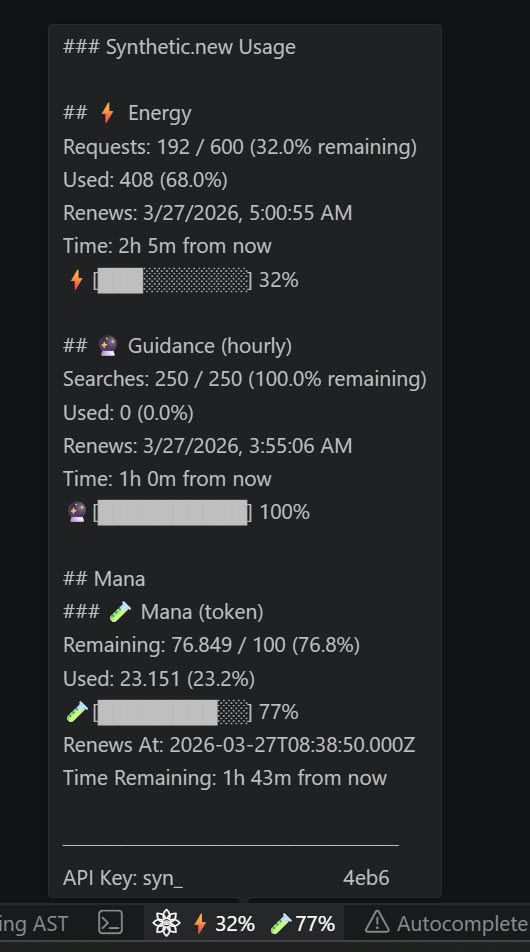
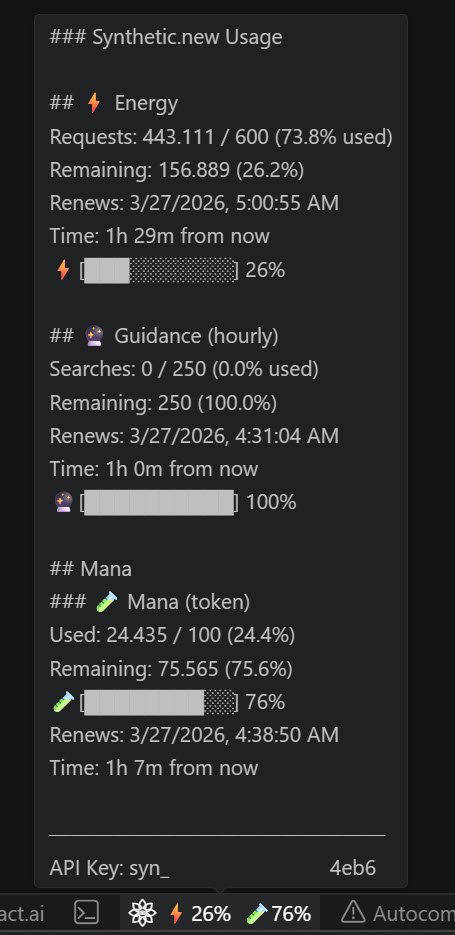
~ [ reorder readme sections and update data ]:
📝 docs(README): reorder readme sections and update data

- relocate Screenshots section to documentation end
- update usage examples with realistic values and timestamps
- add renewal dates and countdown timers

diff --git a/README.md b/README.md
@@ -38,6 +38,32 @@ A VSCode extension that monitors your Synthetic.new API usage and quotas directl
 - **Smart Refresh Button**: Reloads popup content when clicked instead of closing
 - **Cross-Window Synchronization**: API key state automatically syncs across multiple VSCode windows
 
+## Screenshots
+
+### Status Bar & Tooltip
+
+The status bar displays your current usage, and hovering over it shows detailed information including quota limits and renewal dates.
+
+![Status Bar with Tooltip](image/screens/statusbar-tooltip.jpg)
+
+### Warning State
+
+When your usage approaches the warning threshold (default: 80%), the status bar changes color to alert you. (Sorry, old screenshot)
+
+![Warning State](image/screens/warning.jpg)
+
+### Usage Details
+
+Click on the status bar item to view a detailed breakdown of your API usage, including raw numbers and quota information.
+
+![Usage Details](image/screens/details.jpg)
+
+### Commands
+
+Access all extension commands through the Command Palette (`Ctrl+Shift+P` or `Cmd+Shift+P`):
+
+![Commands](image/screens/commands.jpg)
+
 ## Installation
 
 ### From VSCode Marketplace
@@ -201,27 +227,29 @@ Hover over the status bar to see detailed category breakdowns with visual progre
 ### Synthetic.new Usage Details
 
 ## ⚡ Energy
-Requests: 192 / 600 (32.0% remaining)
-Used: 408 (68.0%)
-Renews: 3/27/2026, 5:00:55 AM
-Time: 2h 4m from now
-⚡[███░░░░░░░] 32%
+Requests: 443.111 / 600 (73.8% used)
+Remaining: 156.889 (26.2%)
+Renews: 3/27/2026, 5:00:54 AM
+Time: 1h 27m from now
+⚡[███░░░░░░░] 26%
 
 ## 🔮 Guidance (hourly)
-Searches: 250 / 250 (100.0% remaining)
-Used: 0 (0.0%)
-Renews: 3/27/2026, 3:56:07 AM
+Searches: 0 / 250 (0.0% used)
+Remaining: 250 (100.0%)
+Renews: 3/27/2026, 4:33:04 AM
 Time: 59m from now
 🔮[██████████] 100%
 
+## 🧪 Mana
 ### 🧪 Mana (token)
-Remaining: 76.849 / 100 (76.8%)
-Used: 23.151 (23.2%)
-🧪[████████░░] 77%
-
+Used: 24.439 / 100 (24.4%)
+Remaining: 75.561 (75.6%)
+🧪[████████░░] 76%
+Renews: 3/27/2026, 4:38:50 AM
+Time: 1h 5m from now
 ━━━━━━━━━━━━━━━━
 API Key: syn_****************************4eb6
-Timestamp: 2026-03-27T06:56:41.448Z
+Timestamp: 2026-03-27T07:33:37.709Z
 ```
 
 - `█` (filled block): Represents used quota
@@ -292,32 +320,6 @@ The extension starts silently without automatically popping up usage details win
 ### Smart Refresh Button
 
 When viewing the usage details popup, clicking the **Refresh** button reloads the data and shows the updated information in the same popup instead of closing it. This makes it easy to monitor your usage in real-time.
-
-## Screenshots
-
-### Status Bar & Tooltip
-
-The status bar displays your current usage, and hovering over it shows detailed information including quota limits and renewal dates.
-
-![Status Bar with Tooltip](image/screens/statusbar-tooltip.jpg)
-
-### Warning State
-
-When your usage approaches the warning threshold (default: 80%), the status bar changes color to alert you.
-
-![Warning State](image/screens/warning.jpg)
-
-### Usage Details
-
-Click on the status bar item to view a detailed breakdown of your API usage, including raw numbers and quota information.
-
-![Usage Details](image/screens/details.jpg)
-
-### Commands
-
-Access all extension commands through the Command Palette (`Ctrl+Shift+P` or `Cmd+Shift+P`):
-
-![Commands](image/screens/commands.jpg)
 
 ## Configuration
 
